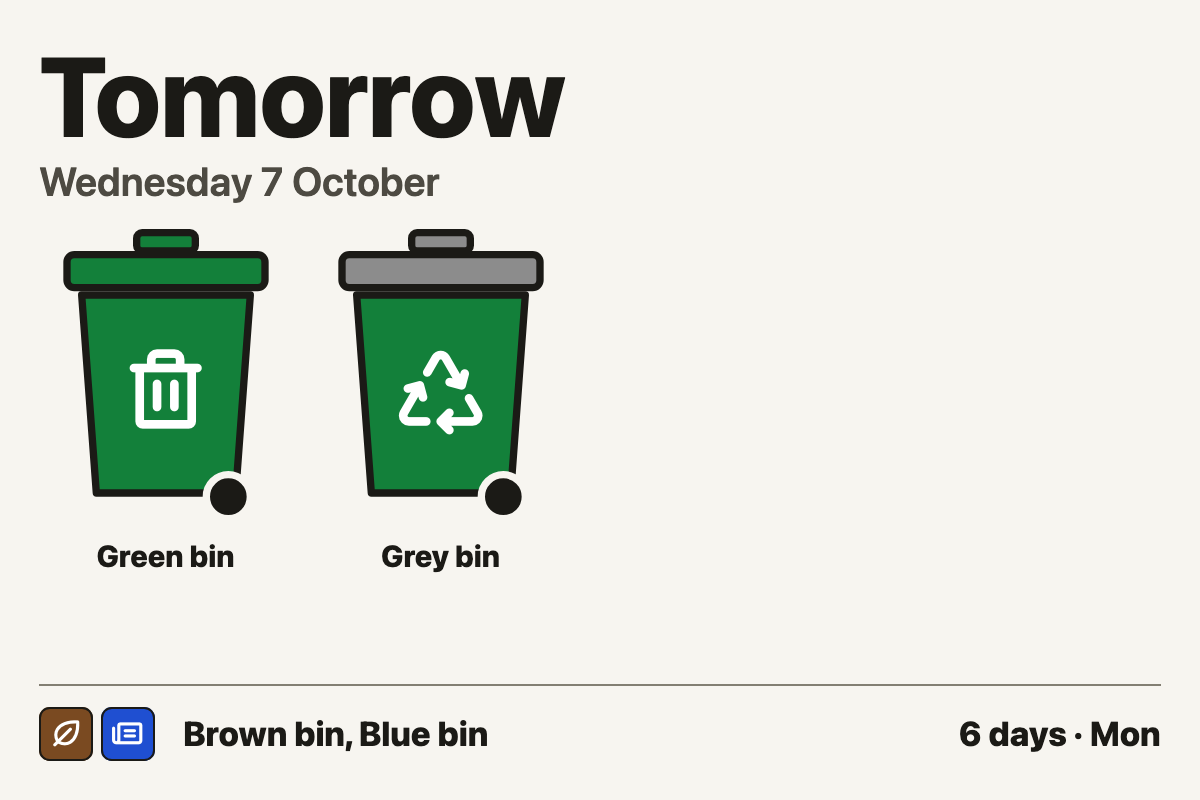
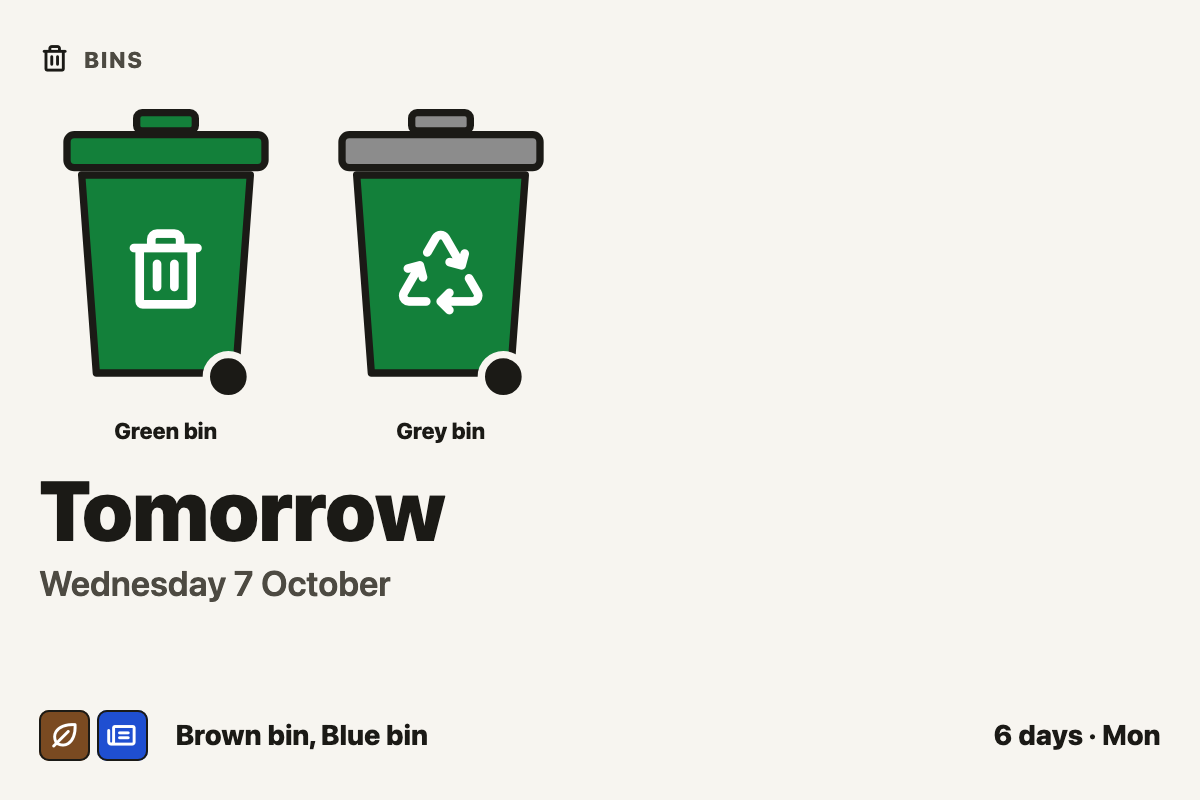
Update the README, pictures and screenshot scenarios for the new layouts
- The README's cell options table lists all six options: Show title row,
  Title, Collection done by, Colours, Small cells show and Show bin names.
- Every picture is rendered again: each now opens with the title bar and
  reads bins, then days left, from the top left.
- Screenshot scenarios can set the title options and Show bin names; two
  new scenarios show them (no-names, custom-title).
- The developer guide's test table describes the new browser and client
  tests.

- 531 pytest cases at 100% line and branch coverage, passing on Tesserae
  0.436.1 and 0.466.1; 82 client tests; Studio's linter reports no errors
  for bin_day

Changed region(s): [[0.0308, 0.0625, 0.4933, 0.75], [0.0308, 0.875, 0.4317, 0.9688], [0.8017, 0.9062, 0.9867, 0.9375]]

diff --git a/preview/scenarios.py b/preview/scenarios.py
@@ -66,6 +66,9 @@ class Scenario:
     cutoff: str = "10:00"
     colours: str = "auto"
     small_cells: str = "chips"
+    show_title: bool = True
+    title: str = ""
+    show_names: bool = True
     source: str = "schedule"
     theme: str | None = None  # render in this theme whatever the run's
     docs: tuple = ()
@@ -76,7 +79,14 @@ class Scenario:
 
     @property
     def options(self):
-        return {"cutoff": self.cutoff, "colours": self.colours, "small_cells": self.small_cells}
+        return {
+            "cutoff": self.cutoff,
+            "colours": self.colours,
+            "small_cells": self.small_cells,
+            "show_title": self.show_title,
+            "title": self.title,
+            "show_names": self.show_names,
+        }
 
 
 SCENARIOS = [
@@ -293,6 +303,22 @@ SCENARIOS = [
         _at(6, 8),
         [(1, ["trash", "leaf"]), (6, ["recycle"])],
         docs=("xs", "sm", "md", "lg"),
+    ),
+    Scenario(
+        "no-names",
+        "The Liverpool bins with Show bin names off: the bins grow into the space.",
+        LIVERPOOL_SET_UP,
+        _at(6, 8),
+        [(1, ["trash", "leaf"]), (6, ["recycle"])],
+        show_names=False,
+    ),
+    Scenario(
+        "custom-title",
+        "The Liverpool bins with the title bar reading Bin day.",
+        LIVERPOOL_SET_UP,
+        _at(6, 8),
+        [(1, ["trash", "leaf"]), (6, ["recycle"])],
+        title="Bin day",
     ),
     Scenario(
         "solid-bins-dark",

diff --git a/docs/development.md b/docs/development.md
@@ -83,14 +83,14 @@ node --check bin_day/client.js bin_day_core/static/admin.js
 | `test_payload.py` | The data a cell receives from `fetch()` |
 | `test_calendar.py` | Home Assistant events to dates (all-day and timed, across clock changes), the query range, cache freshness |
 | `test_ha_source.py` | The calendar source end to end against a fake Home Assistant: the calendar chosen in Core, query, renamed calendar, not connected, the 1-hour cache and 24-hour fallback |
-| `test_plugins_load.py`, `test_manifests.py` | Both plugins load in Tesserae, validate against its schema, offer the cutoff and colour options and a daily refresh |
+| `test_plugins_load.py`, `test_manifests.py` | Both plugins load in Tesserae, validate against its schema, offer the title, cutoff, colour, small-cell and bin-name options in order, and a daily refresh |
 | `test_widget.py` | `fetch()` end to end, including every error tile |
 | `test_admin.py`, `test_core_server.py` | The admin page (source, bins, a calendar's bin names and its own saved settings, the rows endpoint, saving and its errors, links under Home Assistant's ingress prefix), config storage and its older shape, timezone and plugin reload |
 | `test_admin_browser.py` | The admin page in headless Chromium: switching source, adding, removing and hiding rows, the custom icon and colour fields, switching calendars (only that calendar's bins show, unsaved edits survive, every calendar shown is saved), and the page opened through Home Assistant's sidebar (ingress) |
 | `test_preview_scenarios.py` | Each screenshot scenario shows what it is named for; the docs have each docs scenario's images |
 | `test_release.py` | Every root folder other than the two plugins is left out of the release tarball |
-| `test_widget_browser.py` | The widget in headless Chromium at the cell sizes dashboards give it: day labels never cut short, Auto colours following a theme set on the cell, and small cells' wheelie bins fitting the cell with the bins biggest |
-| `tests/js/client.test.js` | Day labels, chip overflow, XS/SM/empty/error layouts, small cells with wheelie bins, HTML and CSS escaping |
+| `test_widget_browser.py` | The widget in headless Chromium at the cell sizes dashboards give it: every layout reading title bar, bins, then days left from the top left, fitting its cell; text following the style's type scale; black and white in the theme's inks; dividers only where the style draws rules; day labels never cut short; Auto colours following a theme set on the cell; small cells' wheelie bins taller than their count; bins growing when names are hidden; a long title |
+| `tests/js/client.test.js` | Day labels, chip overflow, the markup order of every layout, the title bar and its options, Show bin names, small cells with wheelie bins, every word coming from `strings/en.json`, HTML and CSS escaping |
 
 ### How the integration tests work
 
@@ -142,7 +142,8 @@ screenshots/                 gitignored, always the latest run
   dark-mode/  eink-colours/
   today/  after-cutoff/  colour-names/  busy-day/  busy-second-day/
   overflow/  overflow-second-day/  black-and-white/  palette-dark/  palette-light/
-  solid-bins/  solid-bins-dark/  solid-bins-mono/  lid-colours/  lid-colours-mono/
+  solid-bins/  no-names/  custom-title/  solid-bins-dark/  solid-bins-mono/
+  lid-colours/  lid-colours-mono/
   mixed-bins/  set-by-hand/  wheelie-small/  wheelie-small-one/  wheelie-small-busy/
   empty/  error/
 ```

diff --git a/README.md b/README.md
@@ -94,19 +94,22 @@ from those.
 
 ### Place the widget
 
-Add a **Bin Day** cell to a dashboard. It has three options:
+Add a **Bin Day** cell to a dashboard. It has six options:
 
 | Option | What it does |
 | --- | --- |
+| Show title row | Tesserae's title bar across the top of the cell, styled like every other widget's. On unless you turn it off. |
+| Title | The title bar's text. Leave it empty for Bins. |
 | Collection done by | After this time on collection day, that day's bins count as collected and the next collection shows instead. 10:00 unless you change it. |
 | Colours | **Colour** suits screens. **Colour for e-ink** uses the exact inks of colour e-ink panels such as the reTerminal E1002, so bins print as solid ink. **Black & white** draws each bin solid, outlined or patterned, for mono panels. **Auto** uses Colour, or Black & white on black and white themes such as Paper and Newsprint. |
 | Small cells show | **Chips**, the default, shows the next two collection days in XS and SM cells, each bin as a coloured square. **Wheelie bins** shows only the next collection there, its bins drawn as large as the cell allows, for a small cell you read at a glance. MD and LG cells always draw wheelie bins. |
+| Show bin names | The names under the wheelie bins, and in LG's list of later days. Turn it off and the bins grow into the space. |
 
 With Small cells show set to Wheelie bins:
 
 | XS | SM |
 | --- | --- |
-| ![XS with wheelie bins: two bins, 1 day](docs/images/wheelie-small-xs.png) | ![SM with wheelie bins: the count beside tomorrow's two bins](docs/images/wheelie-small-sm.png) |
+| ![XS with wheelie bins: two bins, 1 day](docs/images/wheelie-small-xs.png) | ![SM with wheelie bins: tomorrow's two bins, then the count and date](docs/images/wheelie-small-sm.png) |
 
 Every Bin Day cell shows the same bins, from Bin Day Core.
 
